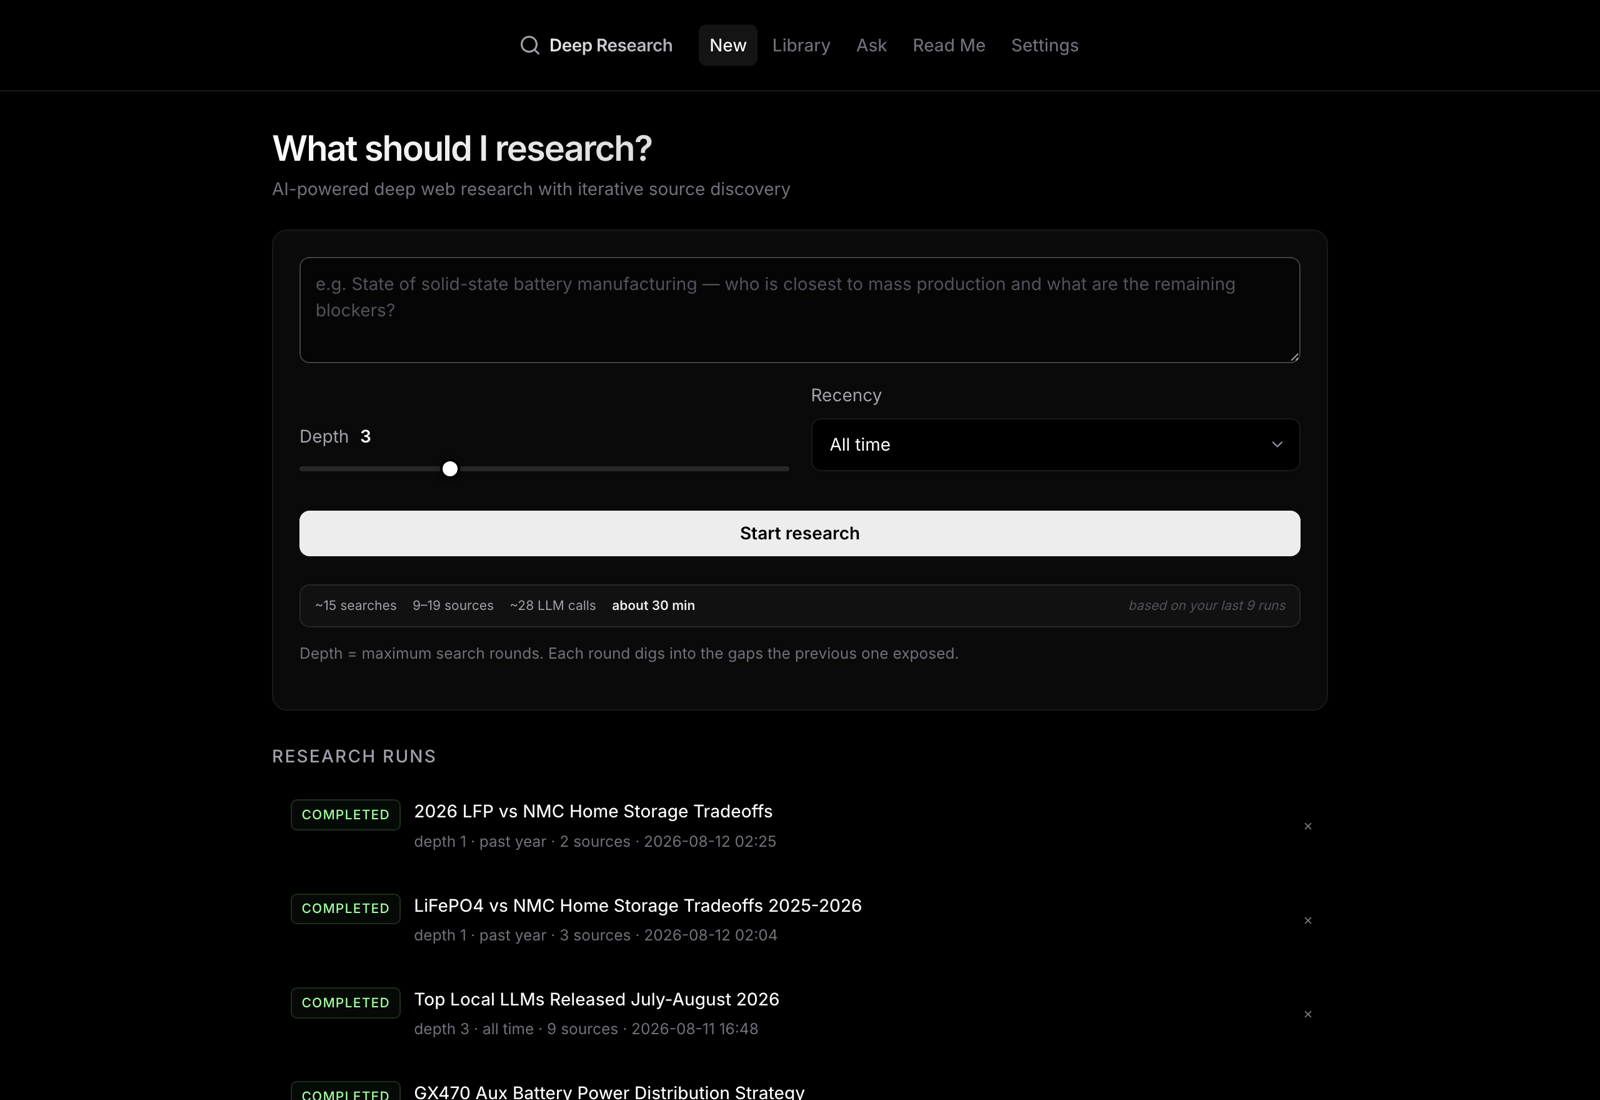
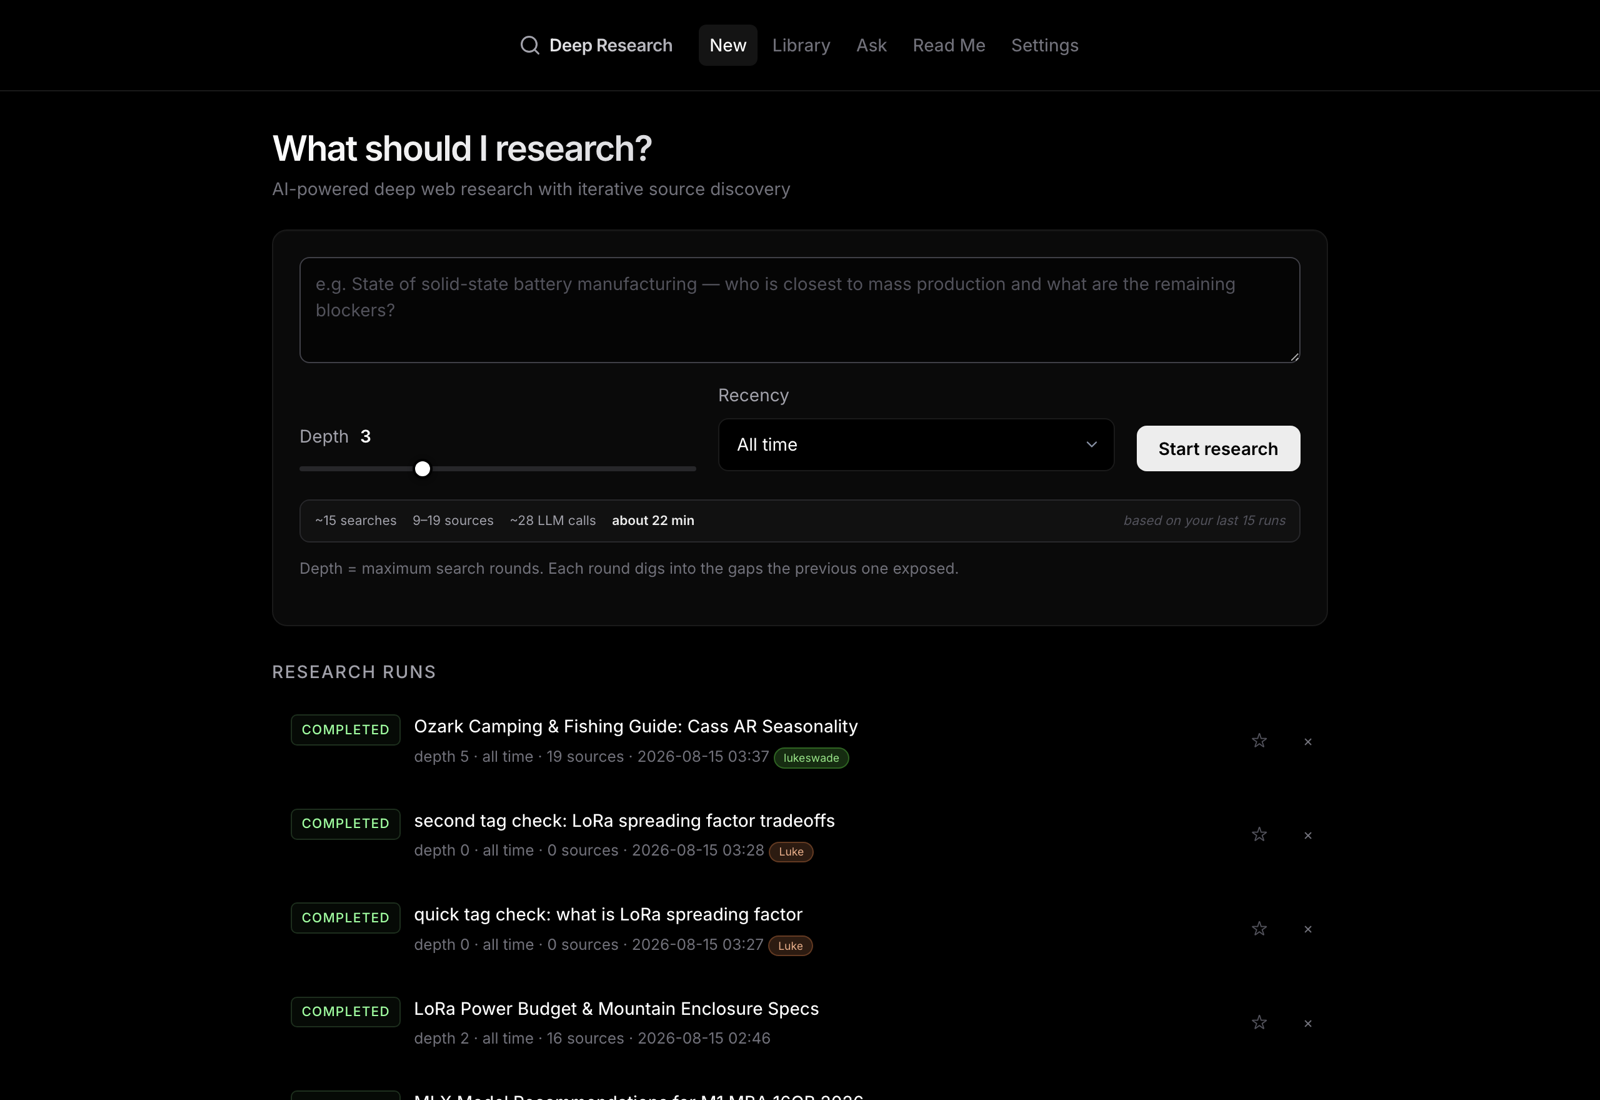
docs: bring the README and Read Me tab up to date
The in-app Read Me had drifted from the code in four places:

- the search section still claimed the general,science,it default that was
  rolled back, and predated engine tiering and BLOCKED_DOMAINS
- the top feature bullets predated citation chasing, PDF export, run
  attribution, and the calibrated pre-flight estimates
- the run-directory paragraph didn't mention the merged Sources tab or
  Export PDF
- stripping the images from the in-app view had left the 'What it looks like'
  gallery as orphaned captions narrating pictures that aren't there — the
  whole section is now dropped in-app (GitHub still gets it)

Screenshots recaptured: run-overview.png still showed the removed
Findings/Sources tab split; home.png predated the one-line controls and
estimate row. The in-app readme test now also pins content currency
(citation chasing, Export PDF, the real search default).

diff --git a/app/web/routes_readme.py b/app/web/routes_readme.py
@@ -16,9 +16,13 @@ _ROOT = Path(__file__).parent.parent.parent
 # first so no orphan [](...) shell survives, then bare images.
 _LINKED_IMAGE_RE = re.compile(r"\[!\[[^\]]*\]\([^)]*\)\]\([^)]*\)")
 _IMAGE_RE = re.compile(r"!\[[^\]]*\]\([^)]*\)")
+# The screenshot gallery is pure captions-plus-images; with the images gone
+# the captions narrate pictures that aren't there, so the section goes too.
+_GALLERY_RE = re.compile(r"\n## What it looks like\n.*?\n---\n", re.DOTALL)
 
 
 def _strip_images(md: str) -> str:
+    md = _GALLERY_RE.sub("\n---\n", md)
     md = _LINKED_IMAGE_RE.sub("", md)
     md = _IMAGE_RE.sub("", md)
     return re.sub(r"\n{3,}", "\n\n", md)

diff --git a/tests/test_next_level.py b/tests/test_next_level.py
@@ -290,3 +290,10 @@ def test_readme_page_serves_no_images(data_dir, monkeypatch):
     assert "Deep Research" in r.text
     prose = r.text.split('class="prose"', 1)[1]
     assert "<img" not in prose
+    # the screenshot gallery must go with its images, or its captions narrate
+    # pictures that aren't there
+    assert "What it looks like" not in prose
+    # spot-check the content tracks the current feature set
+    assert "Citation chasing" in prose
+    assert "Export PDF" in prose
+    assert "general,science" in prose

diff --git a/README.md b/README.md
@@ -15,12 +15,18 @@ Everything runs on your own machine. The only thing that can leave it is the
 LLM call — and even that stays local if you point it at llama.cpp, LM Studio,
 Ollama, or MLX.
 
-- **Web UI** with live progress, a research library (keyword + semantic
+- **Web UI** with live streaming progress, pre-flight run estimates
+  calibrated to your own hardware, a research library (keyword + semantic
   search), and an "Ask" page that answers from everything you've researched,
   with citations.
-- **Telegram bot**: start runs, watch progress, get the overview delivered.
-- **Evergreen topics**: mark a run evergreen and it re-researches itself daily,
-  linking each update back to the original.
+- **Citation chasing**: sources that make the cut get their best references
+  fetched too — datasheets and primary documents search engines never surface.
+- **Evergreen topics** re-research themselves daily, and every refresh leads
+  with *what's new* instead of repeating itself.
+- **One-click PDF export** of the whole research record, and a **Telegram
+  bot** for starting runs and receiving results on your phone.
+- **Multi-user aware**: runs are tagged with the Cloudflare Access identity
+  (or LAN label) that started them.
 - **Everything is plain markdown on disk** (`data/research_data/<run>/`).
   SQLite and the vector index are derived — `reindex` rebuilds them from the
   files at any time.
@@ -130,6 +136,10 @@ that find nothing new, or at per-depth source and LLM-call caps.
 - **Depth 5–10** is a project. Expect many sources and, on a local model, a
   long wall-clock time.
 
+The new-run form shows a live estimate — searches, sources, LLM calls, time,
+cost — for the depth you've dialed in, calibrated against your own completed
+runs, and warns you if something similar is already in your library.
+
 **Recency** maps to search-engine time filters plus a date check on the
 documents themselves. Engine date metadata is imperfect, so undated sources
 are kept but flagged, and the synthesis is told to prefer dated in-window
@@ -137,8 +147,12 @@ material. Treat the windows as best effort.
 
 Every run directory contains `overview.md` (the cited synthesis),
 `further-research.md`, `sources.md`, per-source `findings/*.md`, a `rounds/`
-log, `meta.json`, and `events.jsonl`. The "Further research" tab turns each
-suggestion into a one-click follow-up run.
+log, `meta.json`, and `events.jsonl`. In the UI, a finished run has four tabs
+— Overview (with the bibliography its `[n]` citations jump to), Sources (each
+source's notes, expandable), Further research (one-click follow-up runs), and
+Log — plus **Export PDF**, which produces the entire research record as a
+single document: the question as asked, the overview, the bibliography, and
+every source's notes.
 
 **Citation chasing.** When a source makes the cut, its most relevant outbound
 references become candidates in the same run — the links a good page chooses
@@ -250,12 +264,14 @@ building one never clobbers the other.
 - **Search engines rate-limit.** Google, Brave, DuckDuckGo and Startpage all
   throttle or serve CAPTCHAs to home and datacenter IPs under research-volume
   traffic, and the stock SearXNG `general` category is made up of exactly those.
-  The app therefore searches `general,science,it` by default, which also reaches
-  Crossref, OpenAlex, Semantic Scholar, arXiv, Stack Overflow and GitHub —
-  better research sources that don't gate. Queries are throttled to two at a
-  time for the same reason. If every engine does block, a run says so
+  The app therefore searches `general,science` by default, which also reaches
+  Crossref, OpenAlex, Semantic Scholar and arXiv — research-grade sources that
+  don't gate. General-web results lead and academic ones backfill, so a
+  practical question isn't answered out of a journal. Queries are throttled to
+  two at a time for the same reason. If every engine does block, a run says so
   explicitly rather than reporting "no sources found"; wait a few minutes and
-  hit *Retry*. Tune with `SEARCH_CATEGORIES` and `SEARCH_CONCURRENCY`.
+  hit *Retry*. Tune with `SEARCH_CATEGORIES`, `SEARCH_CONCURRENCY`, and
+  `BLOCKED_DOMAINS` for sites you never want fetched.
 
 ---
 
